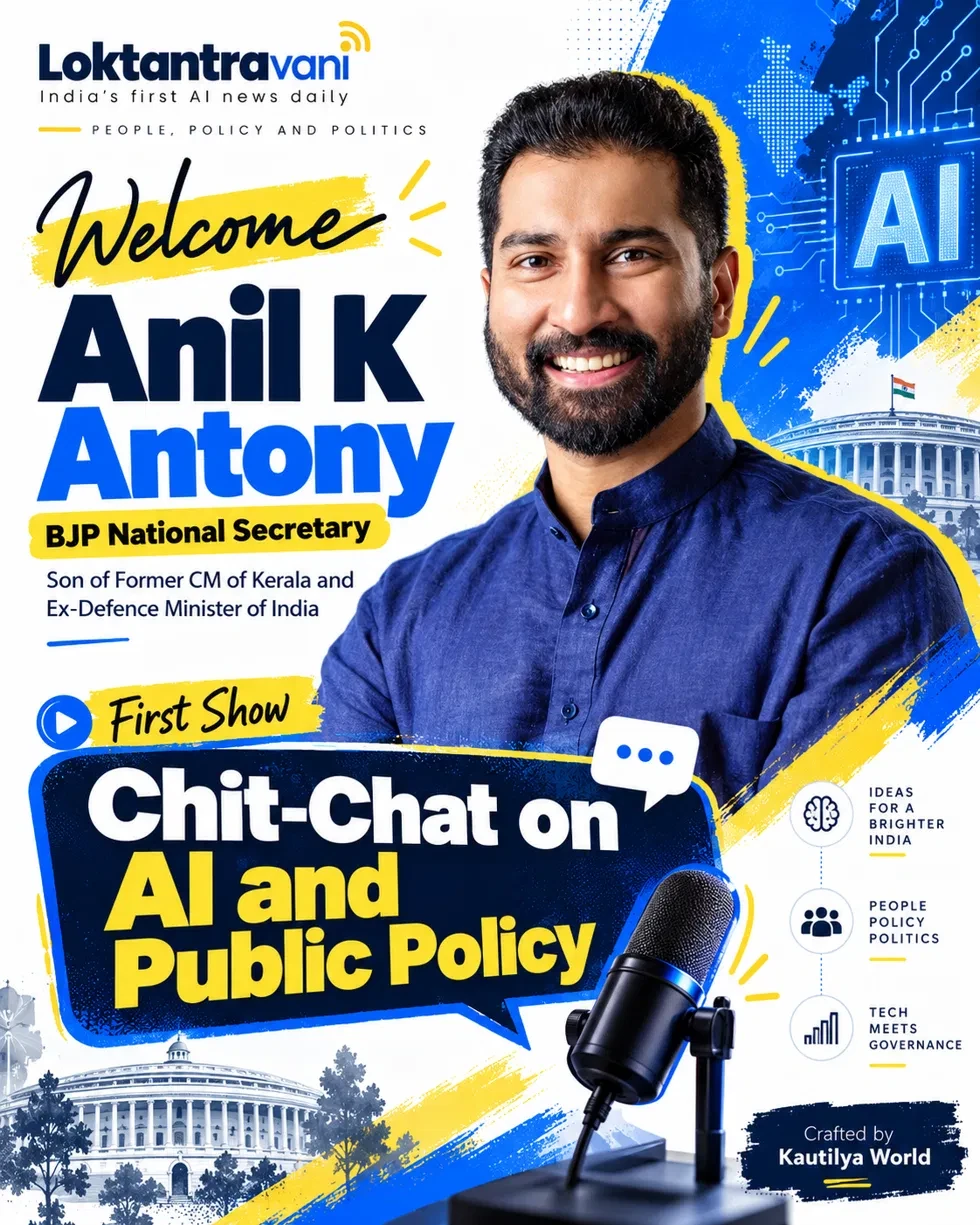
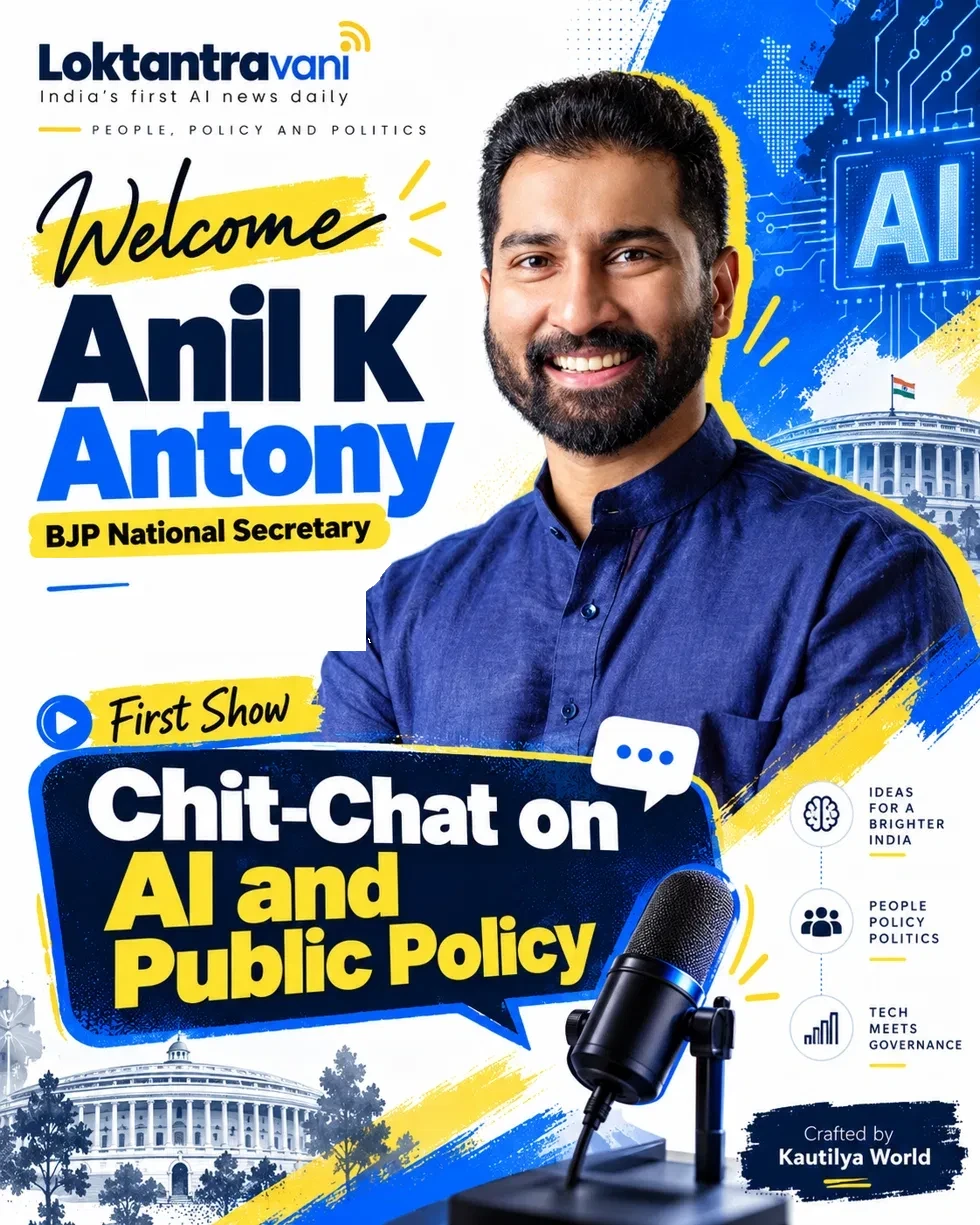
ChitChat: drop 'son of' line from guest poster and event data

Changed region(s): [[0.0306, 0.4653, 0.398, 0.5584]]

diff --git a/src/lib/events.ts b/src/lib/events.ts
@@ -11,7 +11,6 @@ export type LvEvent = {
   title: { en: string; hi: string };
   guest: string;
   guestRole: { en: string; hi: string };
-  guestNote: { en: string; hi: string };
   /** Hosts / panelists in conversation with the guest. */
   panelists: { name: string; bio: { en: string; hi: string } }[];
   description: { en: string; hi: string };
@@ -31,10 +30,6 @@ export const EVENTS: LvEvent[] = [
     title: { en: "Chit-Chat on AI and Public Policy", hi: "AI और सार्वजनिक नीति पर गपशप" },
     guest: "Anil K Antony",
     guestRole: { en: "BJP National Secretary", hi: "भाजपा राष्ट्रीय सचिव" },
-    guestNote: {
-      en: "Son of Former CM of Kerala and Ex-Defence Minister of India",
-      hi: "केरल के पूर्व मुख्यमंत्री व पूर्व रक्षा मंत्री के पुत्र",
-    },
     panelists: [
       {
         name: "Bhavya Razshree",
